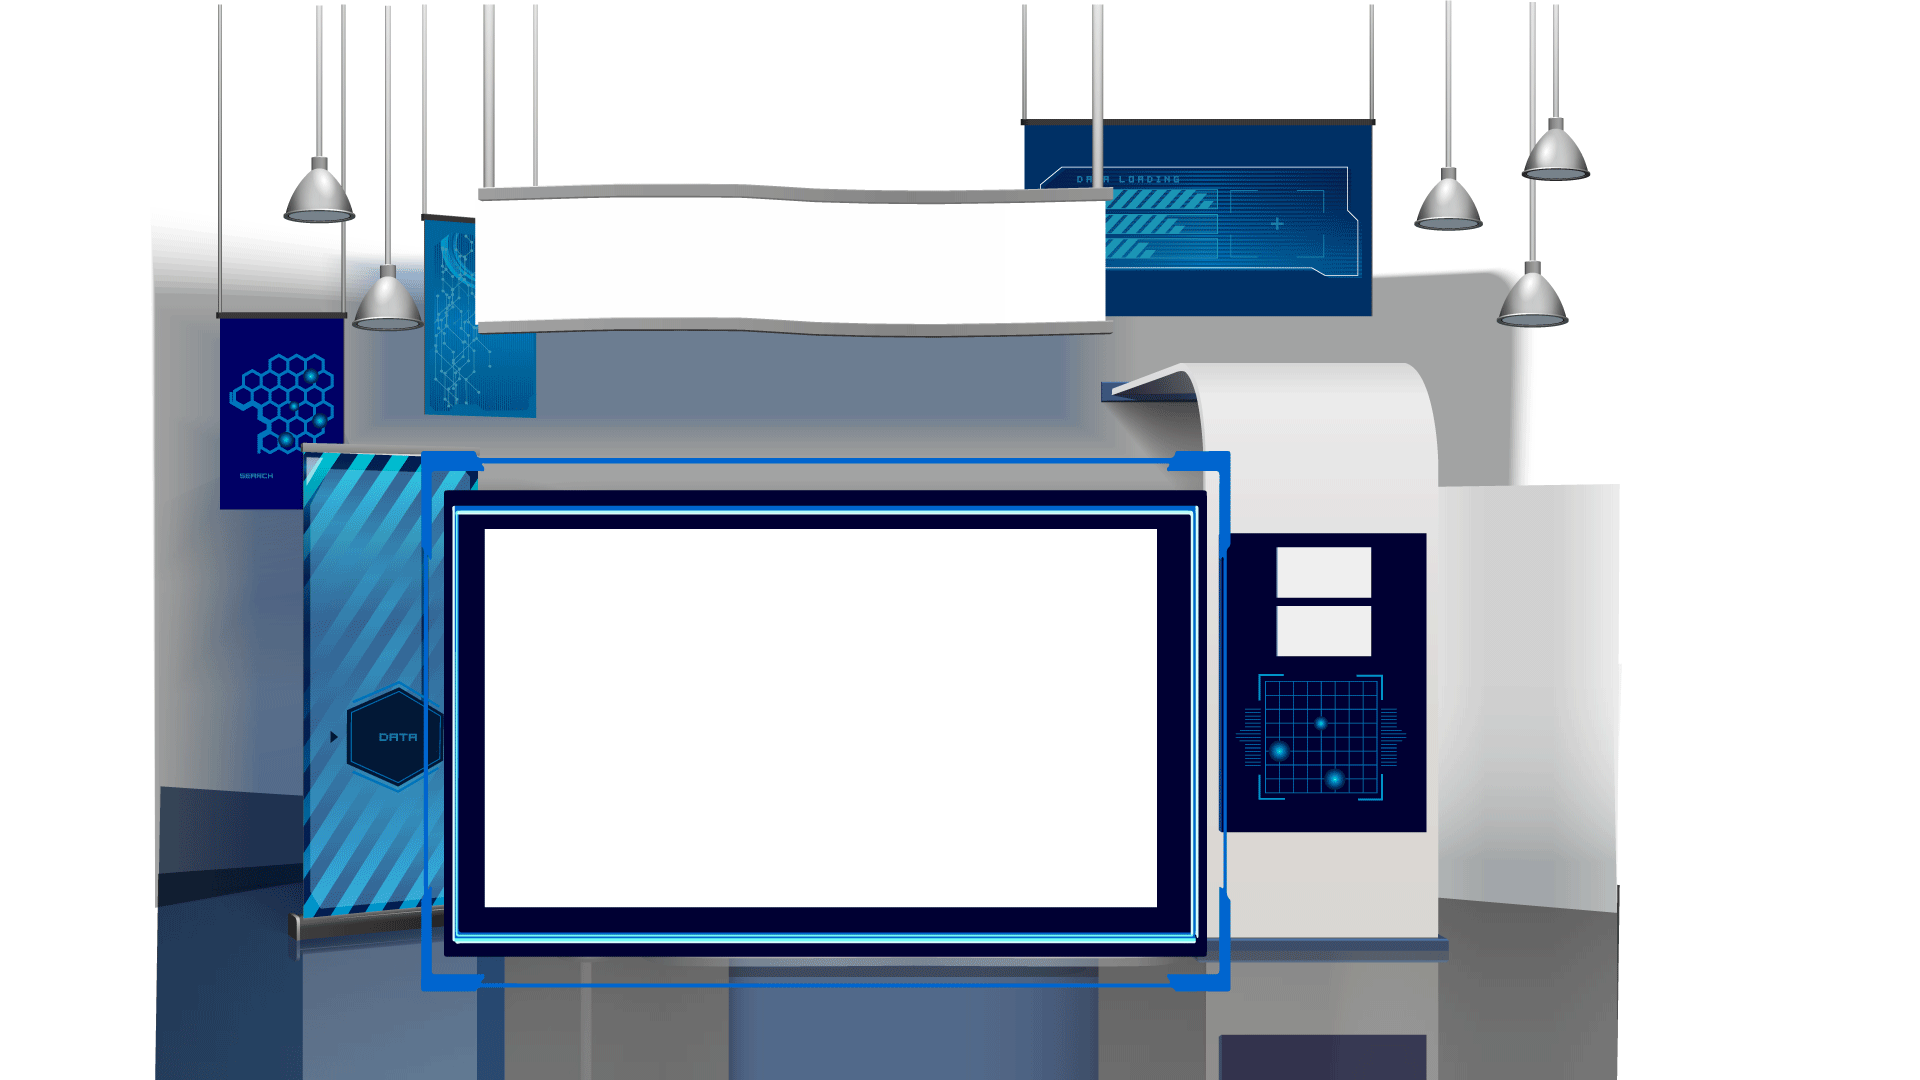
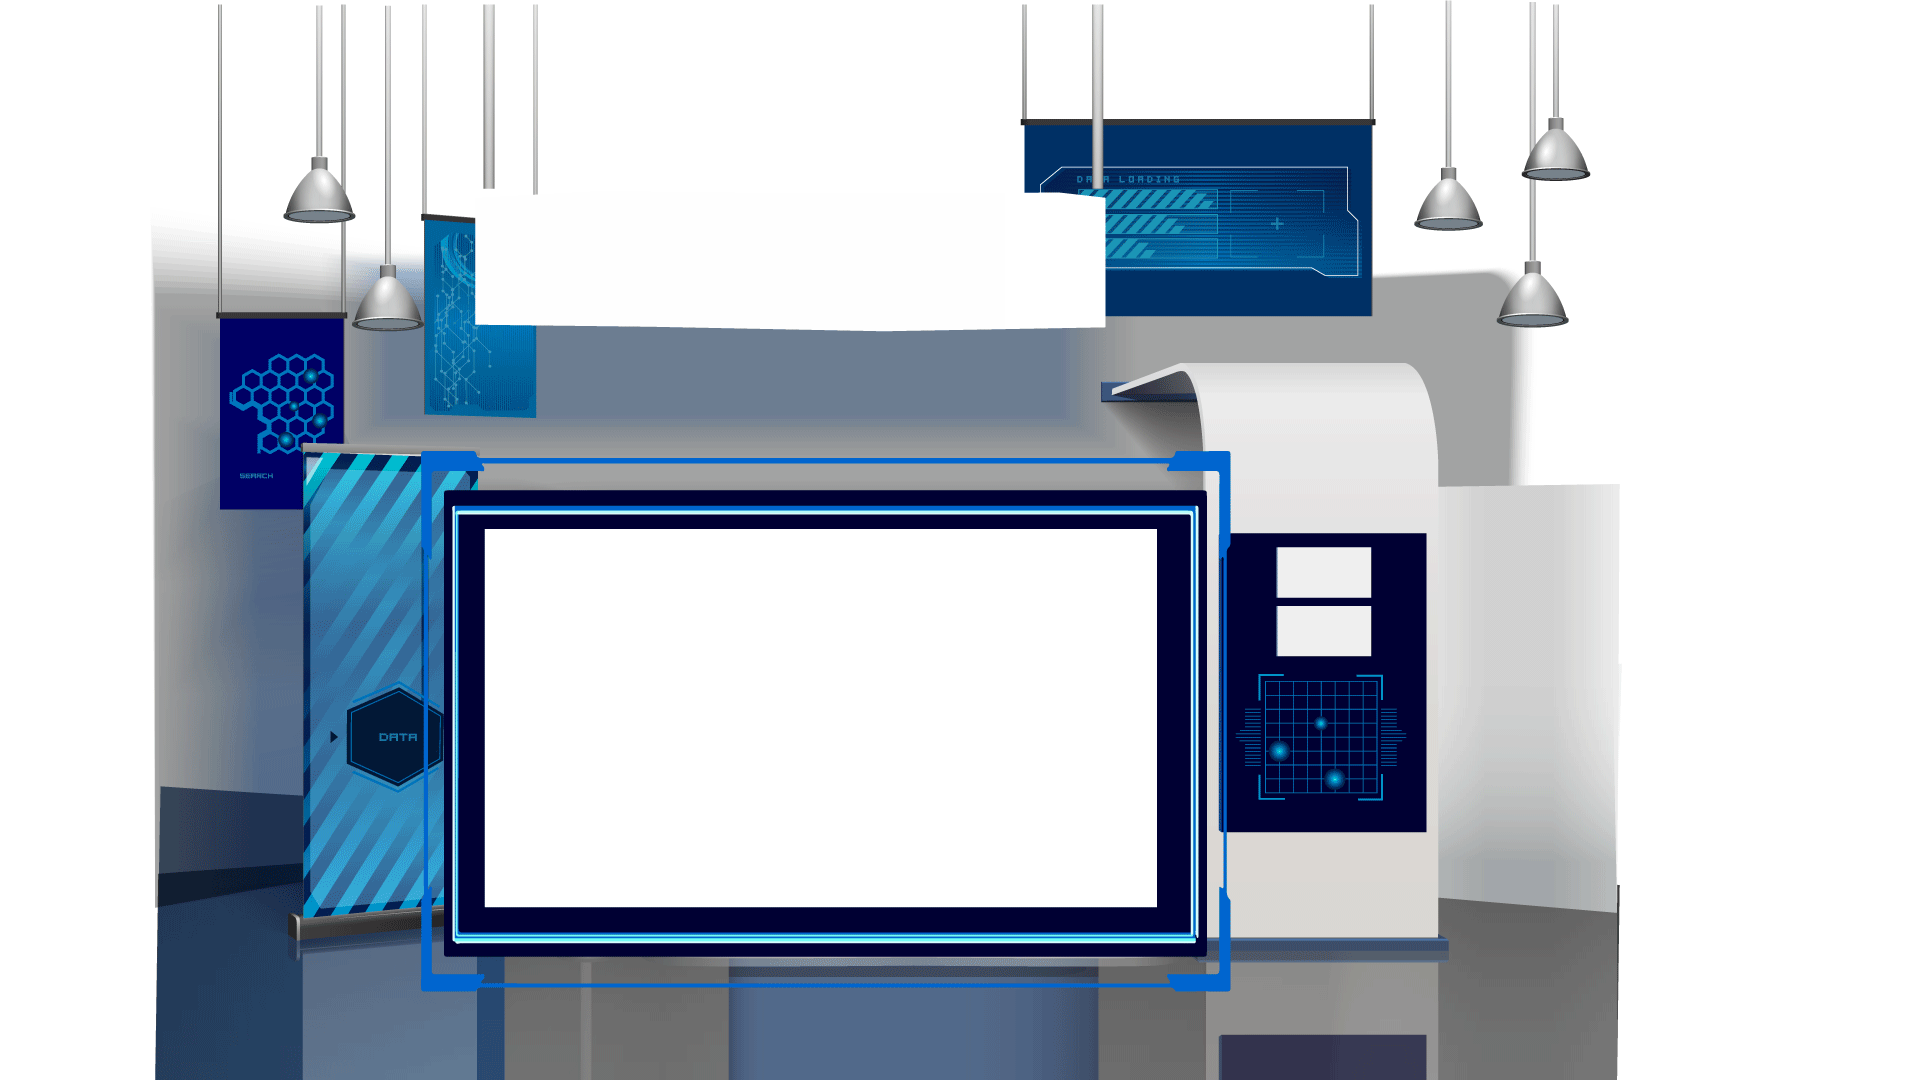
feat:新增攤位樣式2&3;上下輪播完成

diff --git a/src/extend.html b/src/extend.html
@@ -5,11 +5,9 @@
   <meta charset="UTF-8" />
   <meta http-equiv="X-UA-Compatible" content="IE=edge" />
   <meta name="viewport" content="width=device-width, initial-scale=1.0, user-scalable=yes">
-  <!-- OwlCarousel2.3.4 -->
-  <link rel="stylesheet" href="https://cdnjs.cloudflare.com/ajax/libs/OwlCarousel2/2.3.4/assets/owl.carousel.min.css">
-  <link rel="stylesheet"
-    href="https://cdnjs.cloudflare.com/ajax/libs/OwlCarousel2/2.3.4/assets/owl.theme.default.min.css">
-  <!-- css -->
+  <!-- slider (swiper) -->
+  <link rel="stylesheet" href="https://unpkg.com/swiper@8/swiper-bundle.min.css" />
+    <!-- css -->
   <link rel="stylesheet" href="css/style.css" />
   <!-- font awesome -->
   <link rel="stylesheet" href="https://use.fontawesome.com/releases/v6.0.0/css/all.css"
@@ -27,70 +25,135 @@
   </nav>
 
   <head>
-    <!-- @@include('layout/login.html') -->
+    @@include('layout/login.html')
   </head>
-  <!-- content，各自頁面的html寫在這邊以下都是範例 -->
+  <!-- content，各自頁面的html寫在這邊 -->
   <main>
-    <section class="wrapper">
-      <article class="extend_head -margin0auto">
-        <div class="owl-carousel owl-theme">
-          <div class="item"><img class="-margin0auto" src="img/sample/Logo1.png" alt=""></div>
-          <div class="item"><img class="-margin0auto" src="img/sample/Logo2.png" alt=""></div>
-          <div class="item"><img class="-margin0auto" src="img/sample/logo3.png" alt=""></div>
-          <div class="item"><img class="-margin0auto" src="img/sample/Logo4.png" alt=""></div>
-          <div class="item"><img class="-margin0auto" src="img/sample/Logo5.png" alt=""></div>
-          <div class="item"><img class="-margin0auto" src="img/sample/logo6.png" alt=""></div>
-          <div class="item"><img class="-margin0auto" src="img/sample/Logo7.png" alt=""></div>
-          <div class="item"><img class="-margin0auto" src="img/sample/logo8.png" alt=""></div>
-          <div class="item"><img class="-margin0auto" src="img/sample/logo9.png" alt=""></div>
-          <div class="item"><img class="-margin0auto" src="img/sample/logo10.png" alt=""></div>
-          <div class="item"><img class="-margin0auto" src="img/extend/robotwave2.gif" alt=""></div>
-          <div class="item"><img class="-margin0auto" src="img/about/about_banner.png" alt=""></div>
-        </div>
-      </article>
-    </section>
-    <section class="wrapper">
-      <article class="extend_booth1">
-        <img src="img/extend/booth1.png" alt="">
-        <div class="extend_banner">
-          <img src="img/sample/Logo1.png" alt="">
-          <h3 class="bg-color ml-5">Technology-company股份有限公司</h3>
-        </div>
-        <iframe class="video" type="text/html" src="https://www.youtube.com/embed/_OAhhRuCTCU?autoplay=1&origin=http://example.com" frameborder="0" allowfullscreen></iframe>
-        <a href="#">
-          <div class="extend_robotch1 -hide">
-            <img class="extend_robotwave" src="img/extend/robotwave1.gif" alt="">
-            <img class="extend_robot" src="img/extend/robot1.png" alt="">
+    <section>
+      <div style="--swiper-navigation-color: #fff; --swiper-pagination-color: #fff" class="swiper mySwiper2 wrapper">
+        <div thumbsSlider="" class="swiper mySwiper extend_head">
+          <div class="swiper-wrapper">
+            <div class="swiper-slide">
+              <img src="img/sample/Logo1.png" />
+            </div>
+            <div class="swiper-slide">
+              <img src="img/sample/Logo2.png" />
+            </div>
+            <div class="swiper-slide">
+              <img src="img/sample/logo3.png" />
+            </div>
+            <div class="swiper-slide">
+              <img src="img/sample/Logo4.png" />
+            </div>
+            <div class="swiper-slide">
+              <img src="img/sample/Logo5.png" />
+            </div>
+            <div class="swiper-slide">
+              <img src="img/sample/logo6.png" />
+            </div>
+            <div class="swiper-slide">
+              <img src="img/sample/Logo7.png" />
+            </div>
+            <div class="swiper-slide">
+              <img src="img/sample/logo8.png" />
+            </div>
+            <div class="swiper-slide">
+              <img src="img/about/about_banner.png" />
+            </div>
+            <div class="swiper-slide">
+              <img src="img/extend/robot1.png" />
+            </div>
           </div>
-          <div class="extend_robotch2">
-            <img class="extend_robotwave" src="img/extend/robotwave2.gif" alt="">
-            <img class="extend_robot" src="img/extend/robot2.png" alt="">
+        </div>
+<!-- 攤位圖 -->
+        <div class="swiper-wrapper extend_body">
+          <div class="swiper-slide wrapper">
+            <article class="extend_booth1">
+              <img src="img/extend/booth1.png" alt="">
+              <div class="extend_banner">
+                <img src="img/sample/Logo1.png" alt="">
+                <h3 class="bg-color ml-5">Technology-company股份有限公司</h3>
+              </div>
+              <iframe class="video" type="text/html" src="https://www.youtube.com/embed/_OAhhRuCTCU?autoplay=1&origin=http://example.com" frameborder="0" allowfullscreen></iframe>
+              <a href="#" class="extend_chat_btn">
+                <div class="extend_robotch1 -hide">
+                <img class="extend_robotwave" src="img/extend/robotwave1.gif" alt="">
+                <img class="extend_robot" src="img/extend/robot1.png" alt="">
+                </div>
+                <div class="extend_robotch2">
+                  <img class="extend_robotwave" src="img/extend/robotwave2.gif" alt="">
+                  <img class="extend_robot" src="img/extend/robot2.png" alt="">
+                </div>
+                <i class="fa-solid fa-comment-dots extend_chat"></i>
+              </a>
+            </article>
           </div>
-          <i class="fa-solid fa-comment-dots extend_chat"></i>
-        </a>
-      </article>
-    </section>
-    <section class="wrapper">
-      <div class="emample_box flex-box-between mb-15">
-        <img src="http://fakeimg.pl/300/" alt="fake" class="img" />
-        <div class="example_text flex-box-column">
-          <h3 class="second-color mb-12">
-            h3內容內容內容內容內容內容內容內容內容內容內容內容內容內容內容內容內容內容內容內容內容
-          </h3>
-          <div class="btn-short"><a href="">登入</a></div>
+          <div class="swiper-slide">
+            <article class="extend_booth2">
+              <img src="img/extend/booth2.png" alt="">
+              <div class="extend_banner">
+                <img src="img/sample/Logo2.png" alt="">
+                <h3 class="bg-color ml-5">SEARCHETH</h3>
+              </div>
+              <iframe class="video" type="text/html" src="https://www.youtube.com/embed/_OAhhRuCTCU?autoplay=1&origin=http://example.com" frameborder="0" allowfullscreen></iframe>
+              <a href="#" class="extend_chat_btn">
+                <div class="extend_robotch1">
+                  <img class="extend_robotwave" src="img/extend/robotwave1.gif" alt="">
+                  <img class="extend_robot" src="img/extend/robot1.png" alt="">
+                </div>
+                <div class="extend_robotch2 -hide">
+                  <img class="extend_robotwave" src="img/extend/robotwave2.gif" alt="">
+                  <img class="extend_robot" src="img/extend/robot2.png" alt="">
+                </div>
+                <i class="fa-solid fa-comment-dots extend_chat"></i>
+              </a>
+            </article>
+          </div>
+          <div class="swiper-slide">
+            <article class="extend_booth3">
+              <img src="img/extend/booth3.png" alt="">
+              <div class="extend_banner">
+                <img src="img/sample/Logo1.png" alt="">
+                <h3 class="bg-color ml-5">Technology-company股份有限公司</h3>
+              </div>
+              <iframe class="video" type="text/html" src="https://www.youtube.com/embed/_OAhhRuCTCU?autoplay=1&origin=http://example.com" frameborder="0" allowfullscreen></iframe>
+              <a href="#" class="extend_chat_btn">
+                <div class="extend_robotch1 -hide">
+                  <img class="extend_robotwave" src="img/extend/robotwave1.gif" alt="">
+                  <img class="extend_robot" src="img/extend/robot1.png" alt="">
+                </div>
+                <div class="extend_robotch2">
+                  <img class="extend_robotwave" src="img/extend/robotwave2.gif" alt="">
+                  <img class="extend_robot" src="img/extend/robot2.png" alt="">
+                </div>
+                <i class="fa-solid fa-comment-dots extend_chat"></i>
+              </a>
+            </article>
+          </div>
+          <div class="swiper-slide">
+            <img src="https://swiperjs.com/demos/images/nature-4.jpg" />
+          </div>
+          <div class="swiper-slide">
+            <img src="https://swiperjs.com/demos/images/nature-5.jpg" />
+          </div>
+          <div class="swiper-slide">
+            <img src="https://swiperjs.com/demos/images/nature-6.jpg" />
+          </div>
+          <div class="swiper-slide">
+            <img src="https://swiperjs.com/demos/images/nature-7.jpg" />
+          </div>
+          <div class="swiper-slide">
+            <img src="https://swiperjs.com/demos/images/nature-8.jpg" />
+          </div>
+          <div class="swiper-slide">
+            <img src="https://swiperjs.com/demos/images/nature-9.jpg" />
+          </div>
+          <div class="swiper-slide">
+            <img src="https://swiperjs.com/demos/images/nature-10.jpg" />
+          </div>
         </div>
-      </div>
-    </section>
-
-    <section class="wrapper">
-      <div class="two-block">
-        <div class="two-block-left"><img src="http://fakeimg.pl/300/" alt="fake" class="img" /></div>
-        <div class="two-block-right flex-box-column">
-          <h3 class="second-color mb-12">
-            h3內容內容內容內容內容內容內容內容內容內容內容內容內容內容內容內容內容內容內容內容內容
-          </h3>
-          <div class="btn"><a href="">登入</a></div>
-        </div>
+        <div class="swiper-button-next"></div>
+        <div class="swiper-button-prev"></div>
       </div>
     </section>
   </main>
@@ -99,9 +162,8 @@
     @@include('layout/footer.html')
   </footer>
 
-  <!-- OwlCarousel2.3.4 -->
-  <script src="https://ajax.googleapis.com/ajax/libs/jquery/3.4.1/jquery.min.js"></script>
-  <script src="https://cdnjs.cloudflare.com/ajax/libs/OwlCarousel2/2.3.4/owl.carousel.min.js"></script>
+  <!-- slider (swiper) -->
+  <script src="https://unpkg.com/swiper@8/swiper-bundle.min.js"></script>
   <script src="js/main.min.js"></script>
   <script src="js/login.min.js"></script>
   <script src="js/extend.min.js"></script>

diff --git a/src/sass/page/_extend.scss b/src/sass/page/_extend.scss
@@ -1,41 +1,24 @@
-// =========首圖輪播==========
+// =========輪播==========
 .extend_head{
-    width: 80%;
-    position: relative;
-    .item{
-        height: 60px;
-        width: 100px;
+    margin-bottom: 0;
+    .swiper-slide{
+        max-width: 100px;
+        cursor: pointer;
         img{
-            max-height: 100%;
-            width: auto;
+            max-height: 91.15px;
+            display: block;
+            margin: 0 auto;
         }
-    }
-    .owl-nav{
-        height: 0;
-        span{
-            transform: scale(1.5) translateY(-50%);
-            color:$second-color;
-            opacity: .6;
-        }
-    }
-    .owl-prev span{
-        @include absolute(50%, null, null, -2%);
-    }
-    .owl-next span{
-        @include absolute(50%, -2%);
     }
 }
 
 // ======攤位圖======
-.extend_booth1{
-    @include relative();
+.extend_body{
     .video{
-        @include absolute(47.5%, null, null, 26%);
         width: 36%;
         height: 36%;
-    };
+    }
     .extend_banner{
-        @include absolute(15%, null, null, 27.5%);
         @include flex-box(33%,flex-start,center);
         height: 7.5vw;
         max-height: 90px;
@@ -50,9 +33,37 @@
                 font-size: min(1.6vw ,24px);
                 line-height: 1.5;
             }
-        };
+        }
     }
-    a{
+    .extend_booth1{
+        @include relative();
+        .video{
+            @include absolute(47.5%, null, null, 26%);
+        };
+        .extend_banner{
+            @include absolute(14.9%, null, null, 27.5%);
+        }
+    }
+    .extend_booth2{
+        @include relative();
+        .video{
+            @include absolute(47.5%, null, null, 25%);
+        };
+        .extend_banner{
+            @include absolute(17.1%, null, null, 24.6%);
+            @include flex-box(33%,flex-start,center);
+        }
+    }
+    .extend_booth3{
+        @include relative();
+        .video{
+            @include absolute(36%, null, null, 32.5%);
+        };
+        .extend_banner{
+            @include absolute(2.5%, null, null, 34.5%);
+        }
+    }   
+    .extend_chat_btn{
         .extend_robot, .extend_robotwave{
             @include absolute(null, 8%, 0);
             height: 60%;
@@ -77,6 +88,7 @@
         }
     }
 }
+
 @keyframes robotMove{
     0%{
         transform: translateY(0);

diff --git a/src/js/extend.js b/src/js/extend.js
@@ -1,15 +1,20 @@
-// =================貓頭鷹輪播=================
-var owl = $('.owl-carousel');
-console.log(owl)
-owl.owlCarousel({
-    stagePadding: 20,
-    loop:true,
-    margin:10,
-    nav:true,
-    dots:false,
-    autoplay:true,
-    autoplayTimeout:3000,
-    autoplayHoverPause: true,
-    autoWidth:true,
-    items:10,
-})    
+// =================輪播=================  
+var swiper = new Swiper(".mySwiper", {
+    loop: true,
+    autoHeight: false,
+    spaceBetween: 20,
+    slidesPerView: "auto",
+    freeMode: true,
+    watchSlidesProgress: true,
+  });
+  var swiper2 = new Swiper(".mySwiper2", {
+    loop: true,
+    spaceBetween: 10,
+    navigation: {
+      nextEl: ".swiper-button-next",
+      prevEl: ".swiper-button-prev",
+    },
+    thumbs: {
+      swiper: swiper,
+    },
+  }); 
